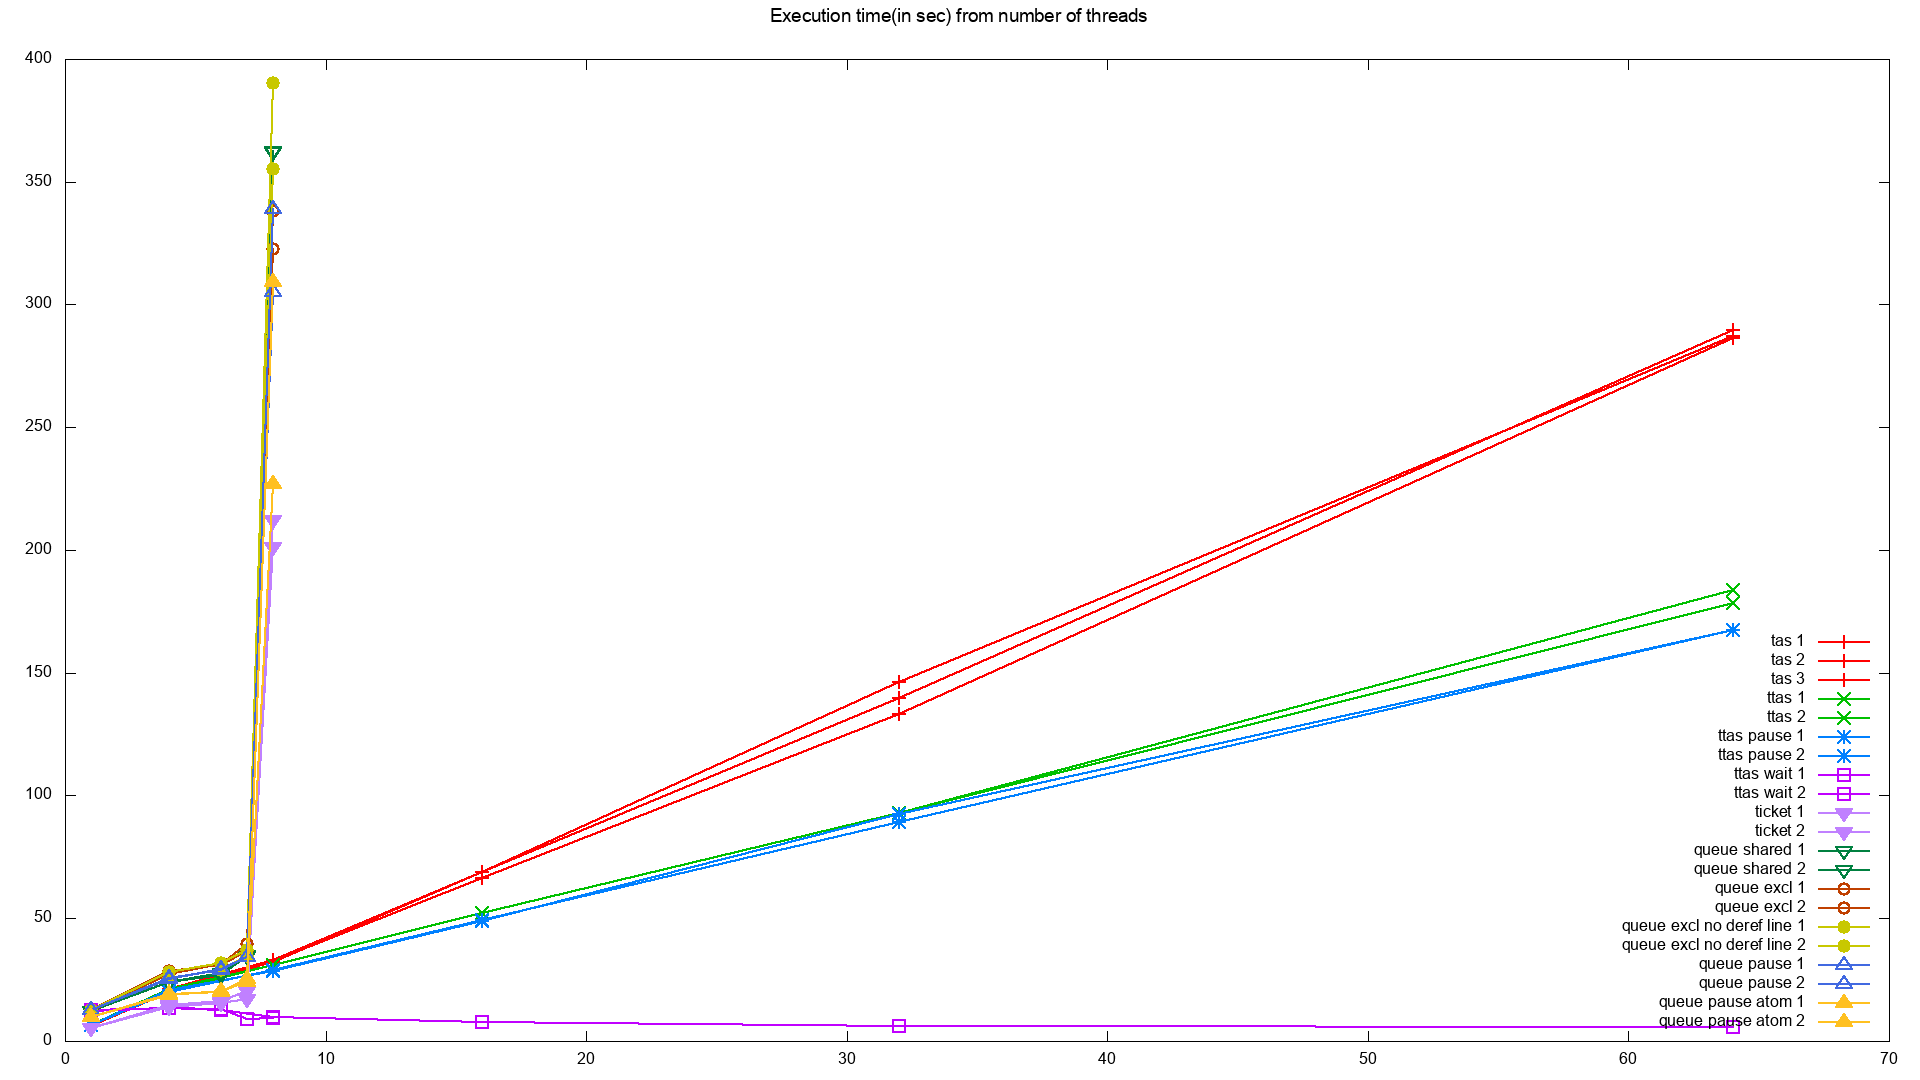
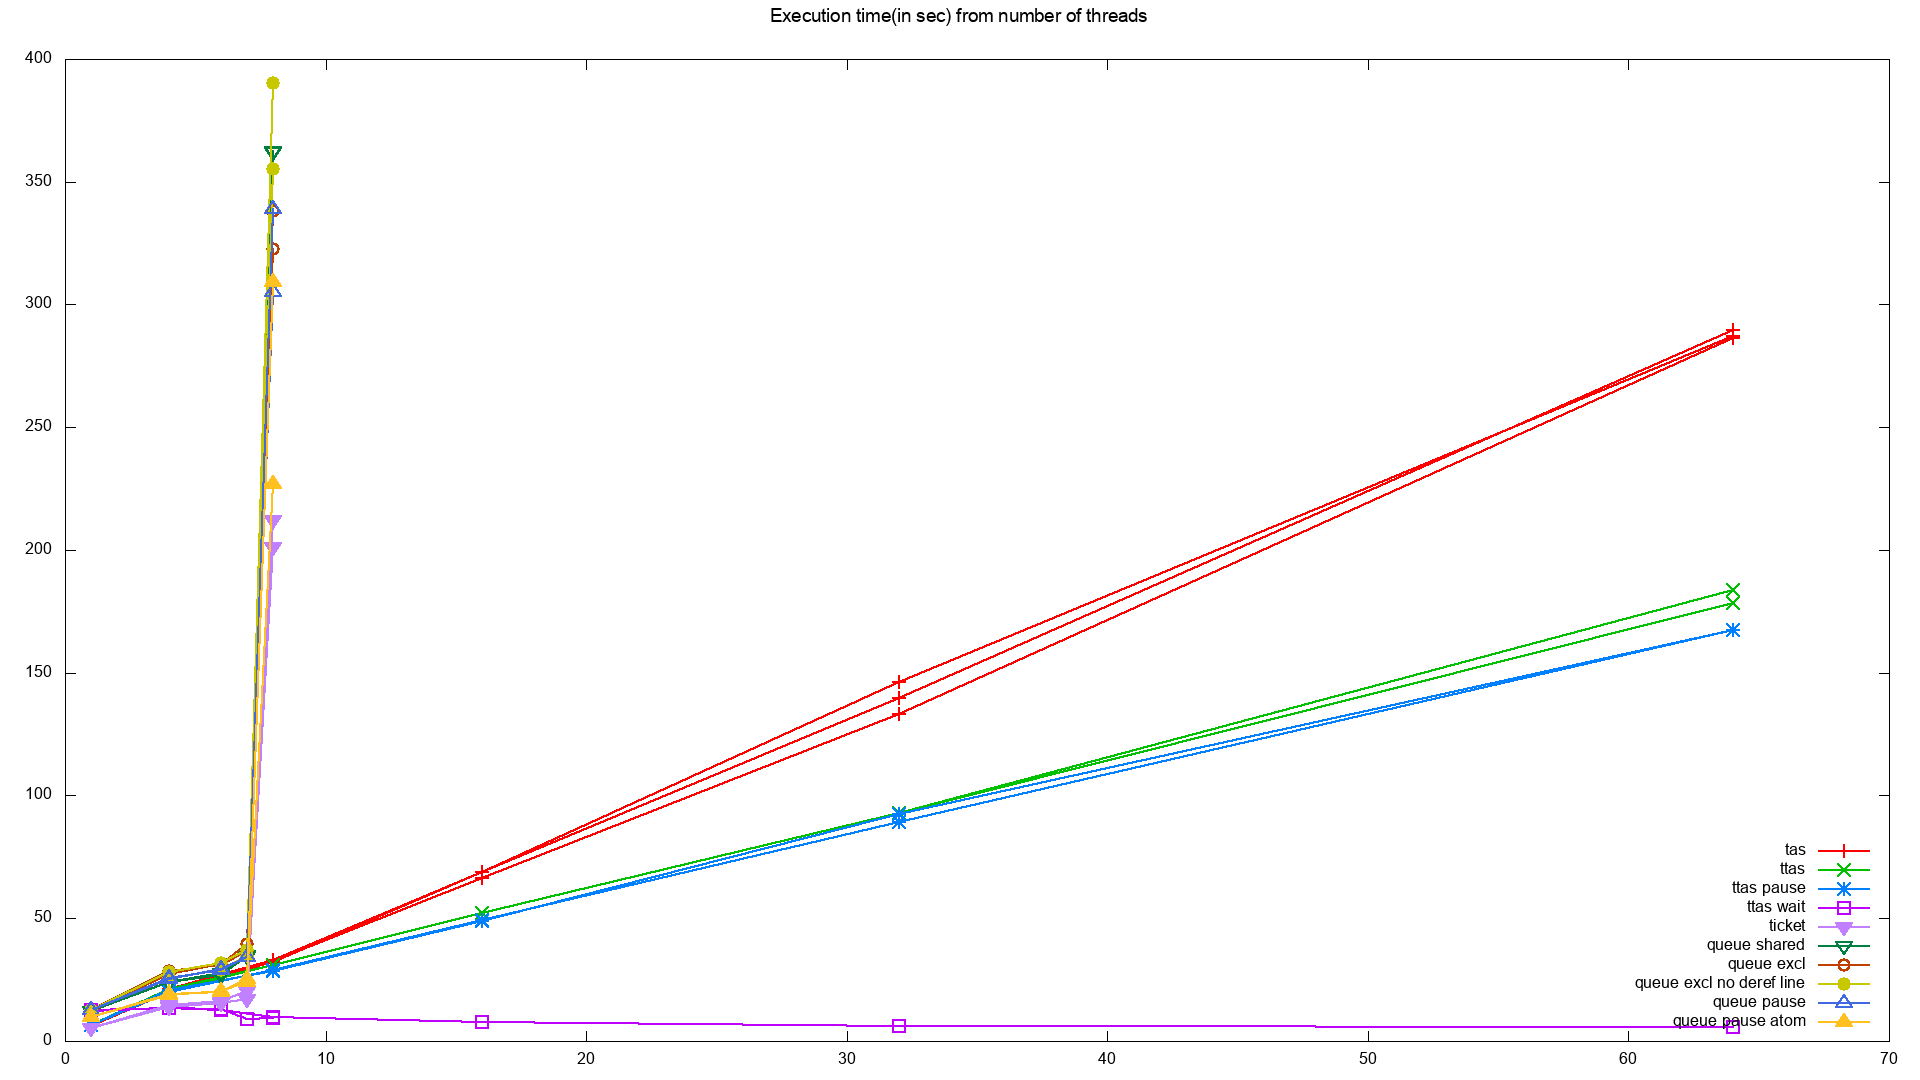
S3: refactor README and plotting scripts a bit

Changed region(s): [[0.8438, 0.5806, 0.9688, 0.9472]]

diff --git a/neganov/seminar_3/README.md b/neganov/seminar_3/README.md
@@ -6,9 +6,32 @@ Implement spinlock/ticketlock with possible use of yield/sleep along with benchm
 
 ### Result
 
+Tests were performed on [Mid 2015 2,2 GHz Intel Core i7 MacBook Pro](https://support.apple.com/kb/SP719) with 4 physical cores and 8 threads.
+
+It is obvious that queuing implementations' performance suffers, once number of threads reaches number of cpu threads, this is because they start to be inevitably scheduled off the cpu, thus slowing down whole queue. This leads to the conclusion that queuing algorithms should be used for threads that are not very likely or even cannot be scheduled at all.
+
+#### How to read plots
+* Plots of one style represent consequent executions of the same algorithm. These are used to see approximate margin of error.
+* X axis is number of threads launched and Y axis is number of seconds exceeded.
+* Bottom plot contains only queue locks properly scaled.
+
 ![implementation performance](https://github.com/phikimon/parallel-programming-class/raw/master/neganov/seminar_3/results/performance.png "Implementations performance")
 ![queue implementation performance](https://github.com/phikimon/parallel-programming-class/raw/master/neganov/seminar_3/results/queue_performance.png "Queue locks implementations performance")
 
+#### Notes on legend
+* tas - [test-and-set](https://en.wikipedia.org/wiki/Test-and-set)
+* ttas - [test and test-and-set](https://en.wikipedia.org/wiki/Test_and_test-and-set)
+* ttas pause - "test and test-and-set" with pause in "test" loop
+* ttas wait - "test and test-and-set" with randomized usleep in "test" loop
+* ticket - [ticket lock](https://en.wikipedia.org/wiki/Ticket_lock)
+* queue shared - [Array Based Queuing Lock](https://en.wikipedia.org/wiki/Array_Based_Queuing_Locks) with 64 threads' sharing each cache line
+* queue excl - ABQL with single thread owning each cache line
+* queue excl no deref - ABQL with single thread owning each cache line, some pointer dereferences are optimized out
+* queue pause - ABQL with pause in spinning loop
+* queue pause atom - replaces memory barriers protecting `ticket_serving`, uses `ticket_serving` as atomic
+
+#### TODO
+* implement exponential backoff for ABQL and ttas
 
 ## How to use my benchmarks
 
